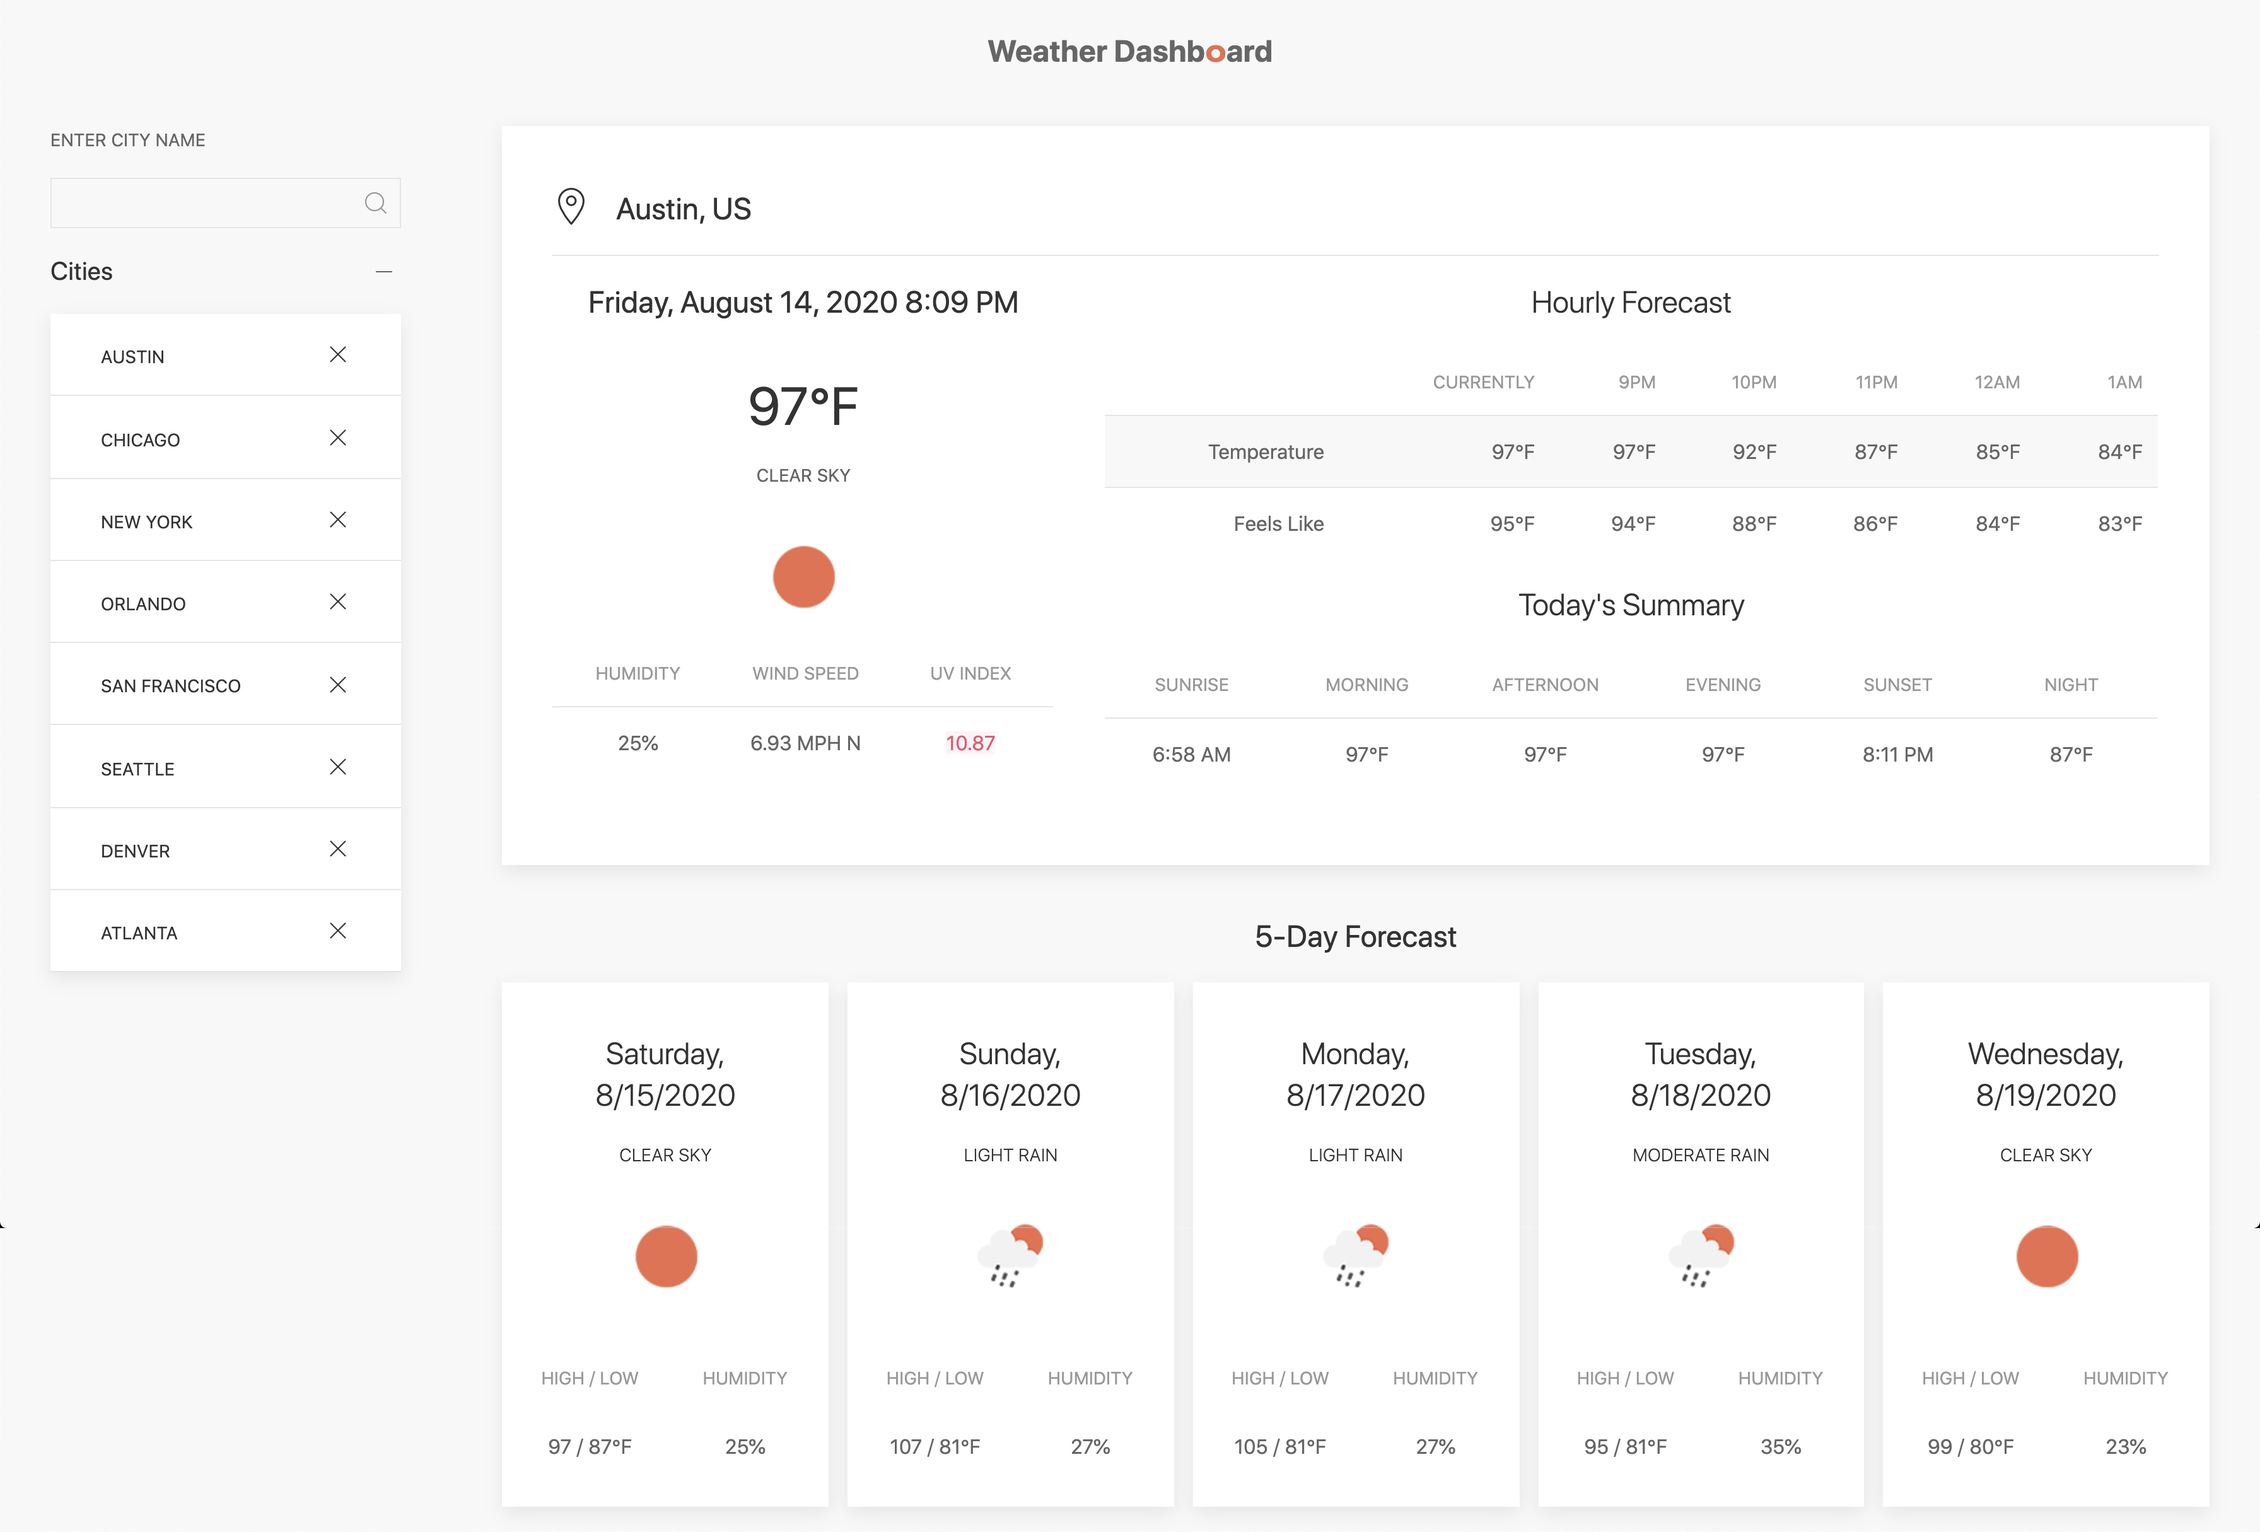
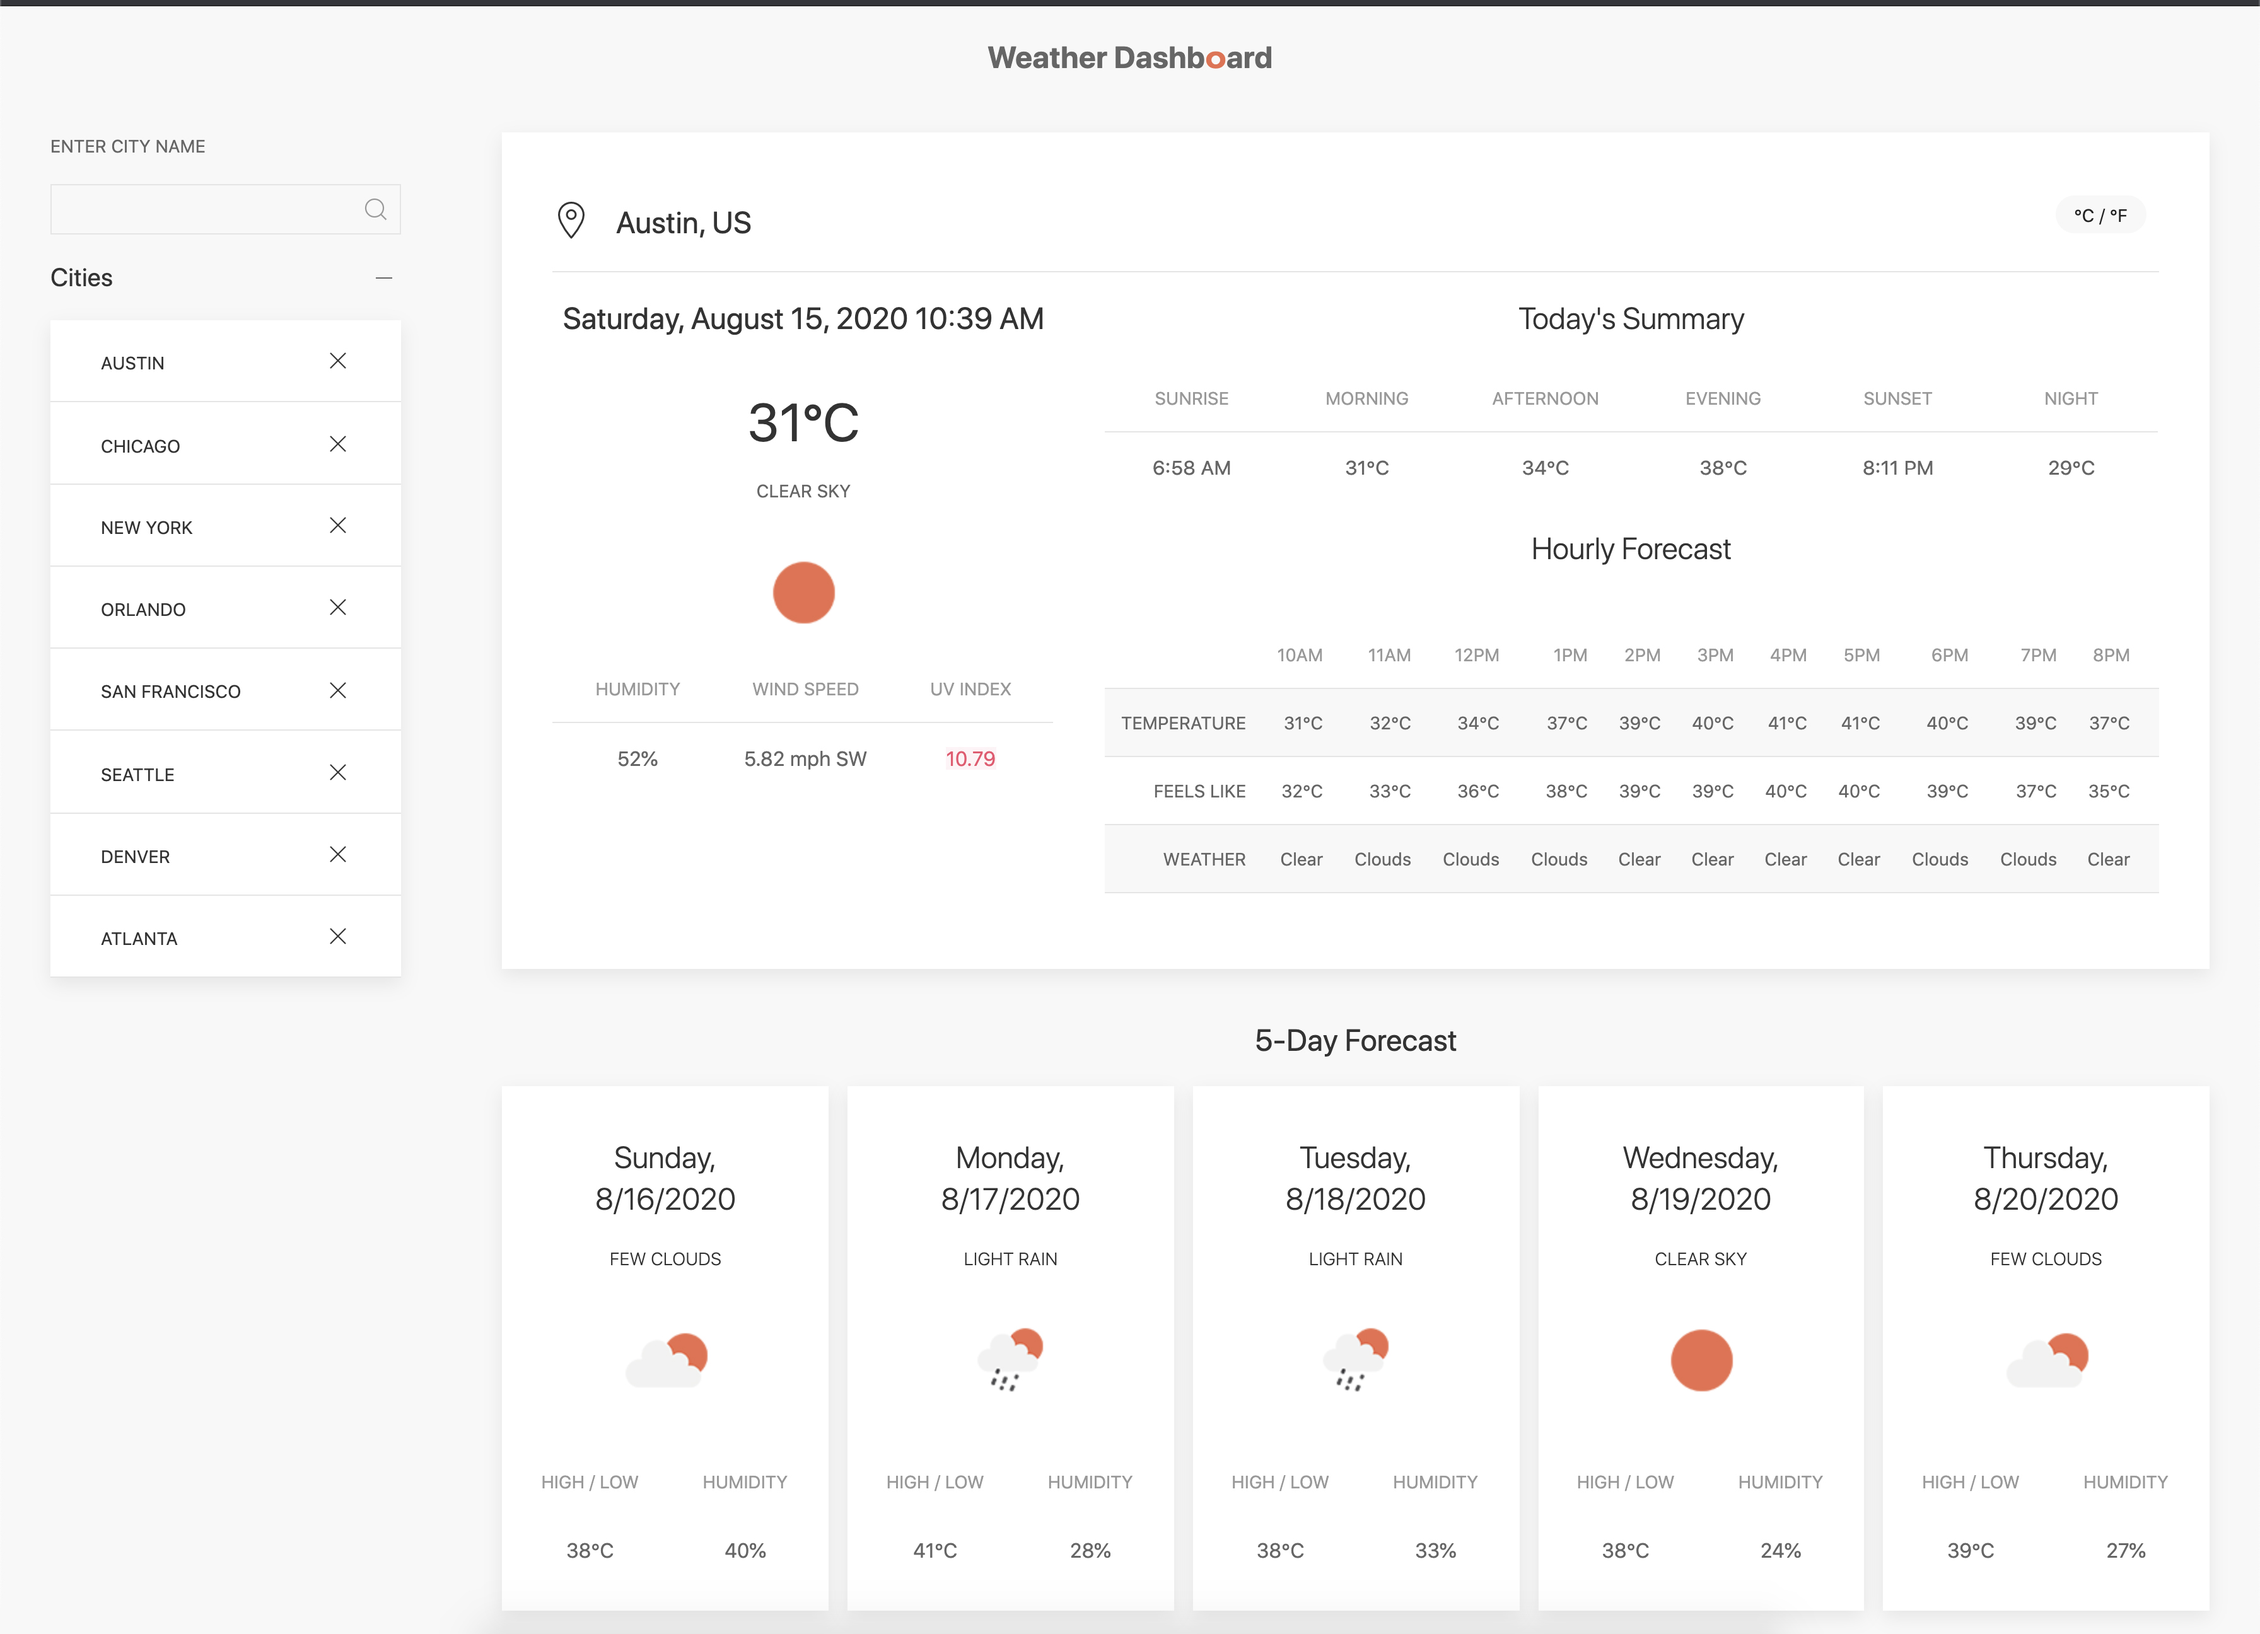
add celsius button and add weather row to the hourly forecast

diff --git a/Assets/js/app.js b/Assets/js/app.js
@@ -3,13 +3,15 @@ $(document).ready(function() {
   // today's date under the city name
   $('#today-date').text(`${moment().format('dddd, l')}`);
   // table for the hourly forecast 
-  for (let i = 1; i < 48; i++) {
+  for (let i = 0; i < 48; i++) {
     let $hour = $('<th>').append($('<span>').attr('id', `hour-${i}`));
     $('#hourly-hour').append($hour);
     let $hourTemp = $('<td>').append($('<span>').attr('id', `hour-${i}-temp`));
     $('#hourly-temp').append($hourTemp);
     let $hourFeels = $('<td>').append($('<span>').attr('id', `hour-${i}-feels`));
     $('#hourly-feels').append($hourFeels);
+    let $hourMain = $('<td>').append($('<span>').attr('id', `hour-${i}-main`));
+    $('#hourly-main').append($hourMain);
   }
   // 5 cards, 1 for each day for the 5 day forecast
   for (let i = 1; i < 6; i++) {
@@ -127,14 +129,13 @@ $(document).ready(function() {
         url: `https://api.openweathermap.org/data/2.5/onecall?lat=${lat}&lon=${lon}&units=${tempUnit}&appid=${APIKey}`,
         method: "GET"
       }).then(function(response) {
-        $('.today-temp').text(`${Math.floor(response.current.temp)}°F`);
+        $('#current-temp').addClass('units').text(`${Math.floor(response.current.temp)}°F`);
         $('.current-description').html(response.current.weather[0].description);
         $('#today-icon').attr('src', `https://openweathermap.org/img/wn/${response.current.weather[0].icon}@2x.png`)
-        $('#morning').text(`${Math.floor(response.daily[0].temp.morn)}°F`);
-        $('#afternoon').text(`${Math.floor(response.daily[0].temp.day)}°F`);
-        $('#evening').text(`${Math.floor(response.daily[0].temp.eve)}°F`);
-        $('#night').text(`${Math.floor(response.daily[0].temp.night)}°F`);
-        $('#feels-like').text(`${Math.floor(response.current.feels_like)}°F`);
+        $('#morning').addClass('units').text(`${Math.floor(response.daily[0].temp.morn)}°F`);
+        $('#afternoon').addClass('units').text(`${Math.floor(response.daily[0].temp.day)}°F`);
+        $('#evening').addClass('units').text(`${Math.floor(response.daily[0].temp.eve)}°F`);
+        $('#night').addClass('units').text(`${Math.floor(response.daily[0].temp.night)}°F`);
         $('#today-humidity').text(`${response.current.humidity}%`);
       // convert degrees to direction
         function degToCompass(num) {
@@ -143,7 +144,7 @@ $(document).ready(function() {
           return arr[(val % 16)];
         }
         let windDirection = degToCompass(response.current.wind_deg);
-        $('#today-wind').text(`${response.current.wind_speed} MPH ${windDirection}`);
+        $('#today-wind').text(`${response.current.wind_speed} mph ${windDirection}`);
       // green, yellow, or red alerts for the uv index
         $('#today-uv').text(response.current.uvi);
         if (response.current.uvi < 3) {
@@ -157,13 +158,14 @@ $(document).ready(function() {
         for (let i = 0; i < 5; i++) {
           $(`#descr-${i+1}`).text(response.daily[i].weather[0].description)
           $(`#icon-${i+1}`).attr("src", `https://openweathermap.org/img/wn/${response.daily[i].weather[0].icon}@2x.png`);
-          $(`#temp-${i+1}`).text(`${Math.floor(response.daily[i].temp.max)} / ${Math.floor(response.daily[i].temp.min)}°F`);
+          $(`#temp-${i+1}`).addClass('units').text(`${Math.floor(response.daily[i].temp.max)} / ${Math.floor(response.daily[i].temp.min)}°F`);
           $(`#humidity-${i+1}`).text(`${response.daily[i].humidity}%`);
         }
       // temperatures for the hourly forecast
-        for (let i = 1; i < 48; i++) {
-          $(`#hour-${i}-temp`).text(`${Math.floor(response.hourly[i].temp)}°F`);
-          $(`#hour-${i}-feels`).text(`${Math.floor(response.hourly[i].feels_like)}°F`);
+        for (let i = 0; i < 48; i++) {
+          $(`#hour-${i}-temp`).addClass('units').text(`${Math.floor(response.hourly[i].temp)}°F`);
+          $(`#hour-${i}-feels`).addClass('units').text(`${Math.floor(response.hourly[i].feels_like)}°F`);
+          $(`#hour-${i}-main`).text(`${response.hourly[i].weather[0].main}`);
         }
       });
     // use lat and lon to access geonames api
@@ -172,7 +174,7 @@ $(document).ready(function() {
         method: "GET"
       }).then(function(response) {
       // hours for hourly forecast
-        for (let i = 1; i < 48; i++) {
+        for (let i = 0; i < 48; i++) {
           $(`#hour-${i}`).text(`${(moment.tz(response.time, response.timezoneId).add(i, 'hours').format('hA'))}`);
         // display the date at midnight
           if (moment.tz(response.time, response.timezoneId).add(i, 'hours').format('hA') === '12AM') {
@@ -188,4 +190,18 @@ $(document).ready(function() {
   };
 // when the page loads, show the first city on the list
   $('#city-0').children().first().click();
+// convert temperature units
+  $('#change-unit-btn').click(function() {
+    $.each(Array.from($('.units')), function(index, element) {
+      if (element.textContent.includes('°F')) {
+        let fahrenheit = parseInt(element.textContent.substring().substring());
+        let celsius = (fahrenheit - 32) * 5 / 9;
+        element.textContent = `${(celsius).toFixed(0)}°C`;
+      } else {
+        let celsius = parseInt(element.textContent.substring().substring());
+        let fahrenheit = celsius * 9 / 5 + 32;
+        element.textContent = `${(fahrenheit).toFixed(0)}°F`;
+      }
+    })
+  });
 });

diff --git a/index.html b/index.html
@@ -6,6 +6,14 @@
     <meta charset="utf-8">
     <meta name="viewport" content="width=device-width, initial-scale=1">
     <link rel="stylesheet" href="https://cdn.jsdelivr.net/npm/uikit@3.5.5/dist/css/uikit.min.css" />
+    <style>
+      #change-unit-btn {
+        transition: 0.3s;
+      }
+      #change-unit-btn:hover {
+        background-color: #ec6e4c;
+      }
+    </style>
   </head>
   <body>
     <!-- navbar start-->
@@ -54,7 +62,7 @@
           <div class="uk-width-1-3@l uk-text-left">
             <div class="uk-container uk-text-center uk-padding-remove">
               <p class="uk-card-title" id="current-time"></p>
-              <h1 class="today-temp"></h1>
+              <h1 id="current-temp"></h1>
               <p class="uk-text-uppercase uk-text-small current-description"></p>
               <img id="today-icon" alt="weather icon"/>
             </div>
@@ -73,6 +81,7 @@
                 </tbody>
               </table>
             </div>
+            <a><span id="change-unit-btn" class="uk-background-muted uk-text-secondary uk-padding-small uk-badge uk-position-absolute uk-position-small uk-position-top-right">°C / °F </span></a>
           </div>
           <!-- left column end -->
           <!-- right column start -->
@@ -108,17 +117,18 @@
                 <thead>
                   <tr id="hourly-hour">
                     <th></th>
-                    <th class="uk-text-right">Currently</th>
                   </tr>
                 </thead>
-                <tbody>
+                <tbody class="uk-text-small">
                   <tr id="hourly-temp">
-                    <td>Temperature</td>
-                    <td><span class="today-temp"></span></td>
+                    <td>TEMPERATURE</td>
                   </tr>
                   <tr id="hourly-feels">
-                    <td>Feels Like</td>
-                    <td><span id="feels-like"></span></td>
+                    <td>FEELS LIKE</td>
+                  </td>
+                  <tr id="hourly-main">
+                    <td>WEATHER</td>
+                  </td>
                 </tbody>
               </table>
             </div>

diff --git a/README.md b/README.md
@@ -49,11 +49,13 @@ In this application, the user can find the date and the following weather inform
 * Humidity percentage
 * Wind speed in MPH and wind direction
 * UV index (0-2: green, 3-7: yellow, 8+: red)
-* Hourly temperature forecast and how it feels
+* Hourly forecast which displays the temperature, how it feels, and the weather description for the hour
 * Sunrise and sunset times
 * Summary of the day's temperatures
 
 The page also shows the forecast for the next 5 days, displaying the description of the weather conditions, the highs and lows, and the humidity percentage for each day. 
+
+This application displays temperatures in Fahenheit, or Celsius when the "°C / °F" button is clicked. 
 
 <p><img src="Assets/homework6-0.jpg"width="600"/></p>
 
